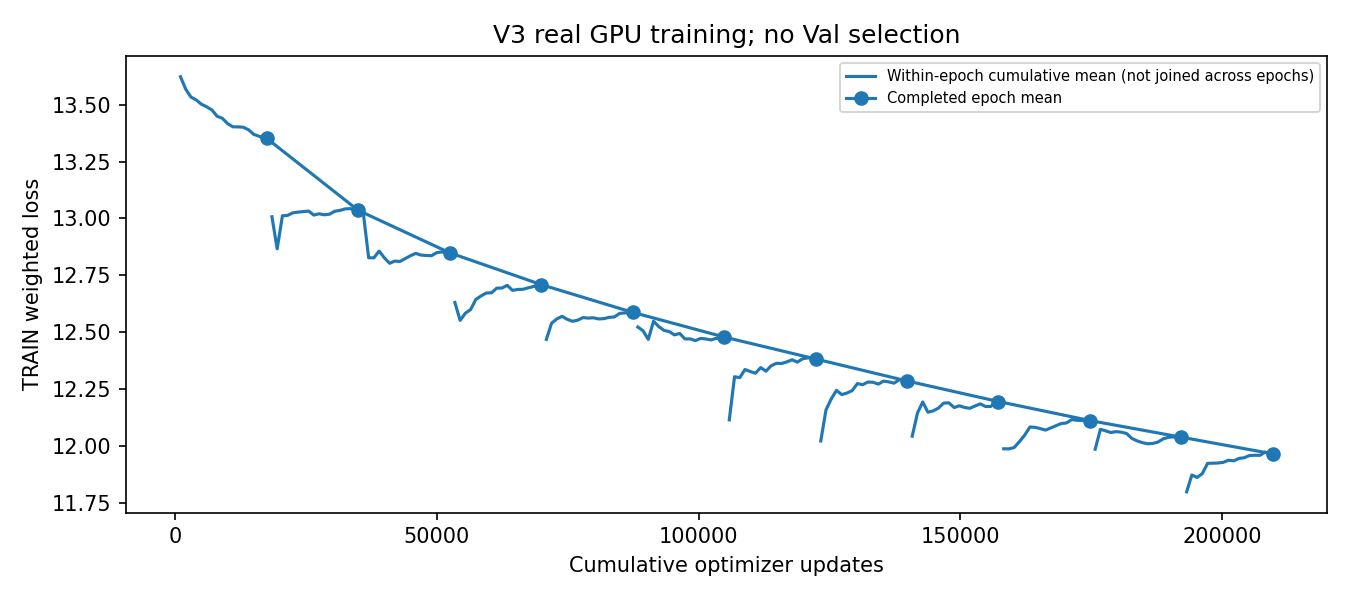
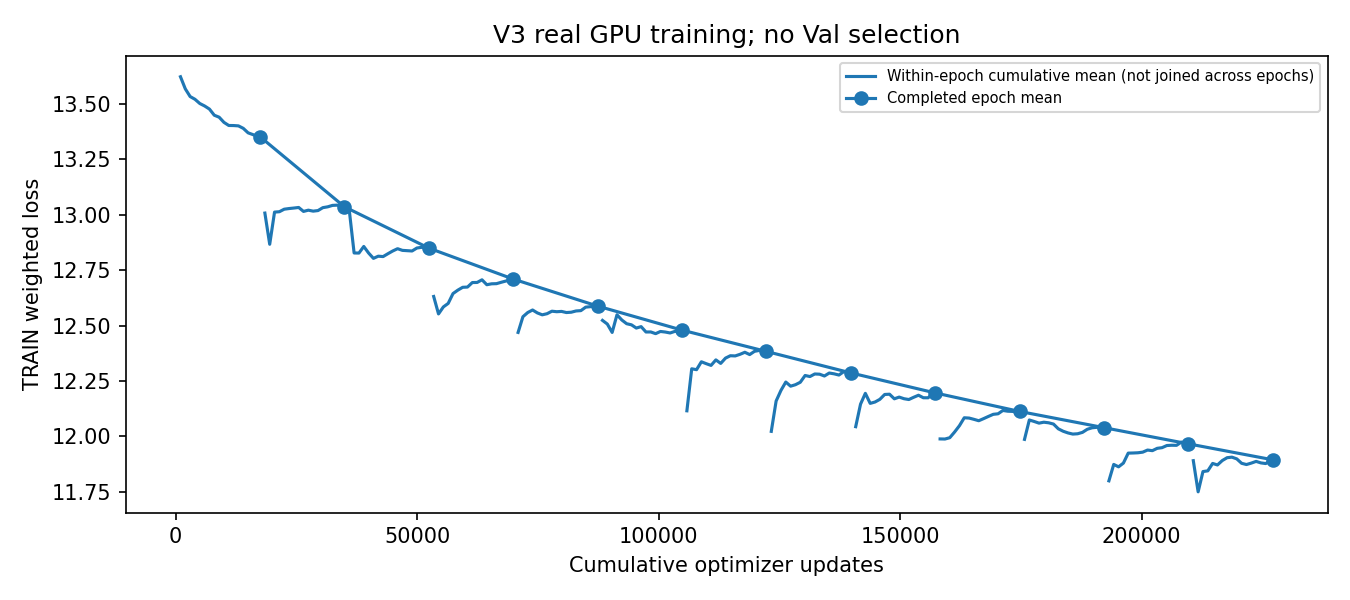
reports(v3): record thirteen completed full training epochs

diff --git a/reports/unified_pgvb/v3_full_training/REPORT_zh.md b/reports/unified_pgvb/v3_full_training/REPORT_zh.md
@@ -2,7 +2,7 @@
 
 完整TRAIN输入21878条；本阶段拟合17473条、物理目标留出4405条，物理分组重叠0。初始化V2曾使用TRAIN，内部留出不是完全未见泛化。
 
-当前已完成完整Epoch：12；训练结束：False。
+当前已完成完整Epoch：13；训练结束：False。
 
 Geometry和轻量视觉模块训练，BERT/SigLIP2冻结并读取缓存；seed42，原权重保留。四小时累计训练预算，至少三轮后连续两轮相对Loss改善<0.5%提前停止。未修改Stop=0.3、1mm守卫或Horizon。
 
@@ -22,6 +22,7 @@ Geometry和轻量视觉模块训练，BERT/SigLIP2冻结并读取缓存；seed42
 |10|17473|12.112471|775.50|0.144|
 |11|17473|12.039329|765.39|0.144|
 |12|17473|11.966297|761.70|0.144|
+|13|17473|11.894328|765.75|0.144|
 
 ![训练Loss](training_loss.png)
 ![Loss分量](loss_components.png)
